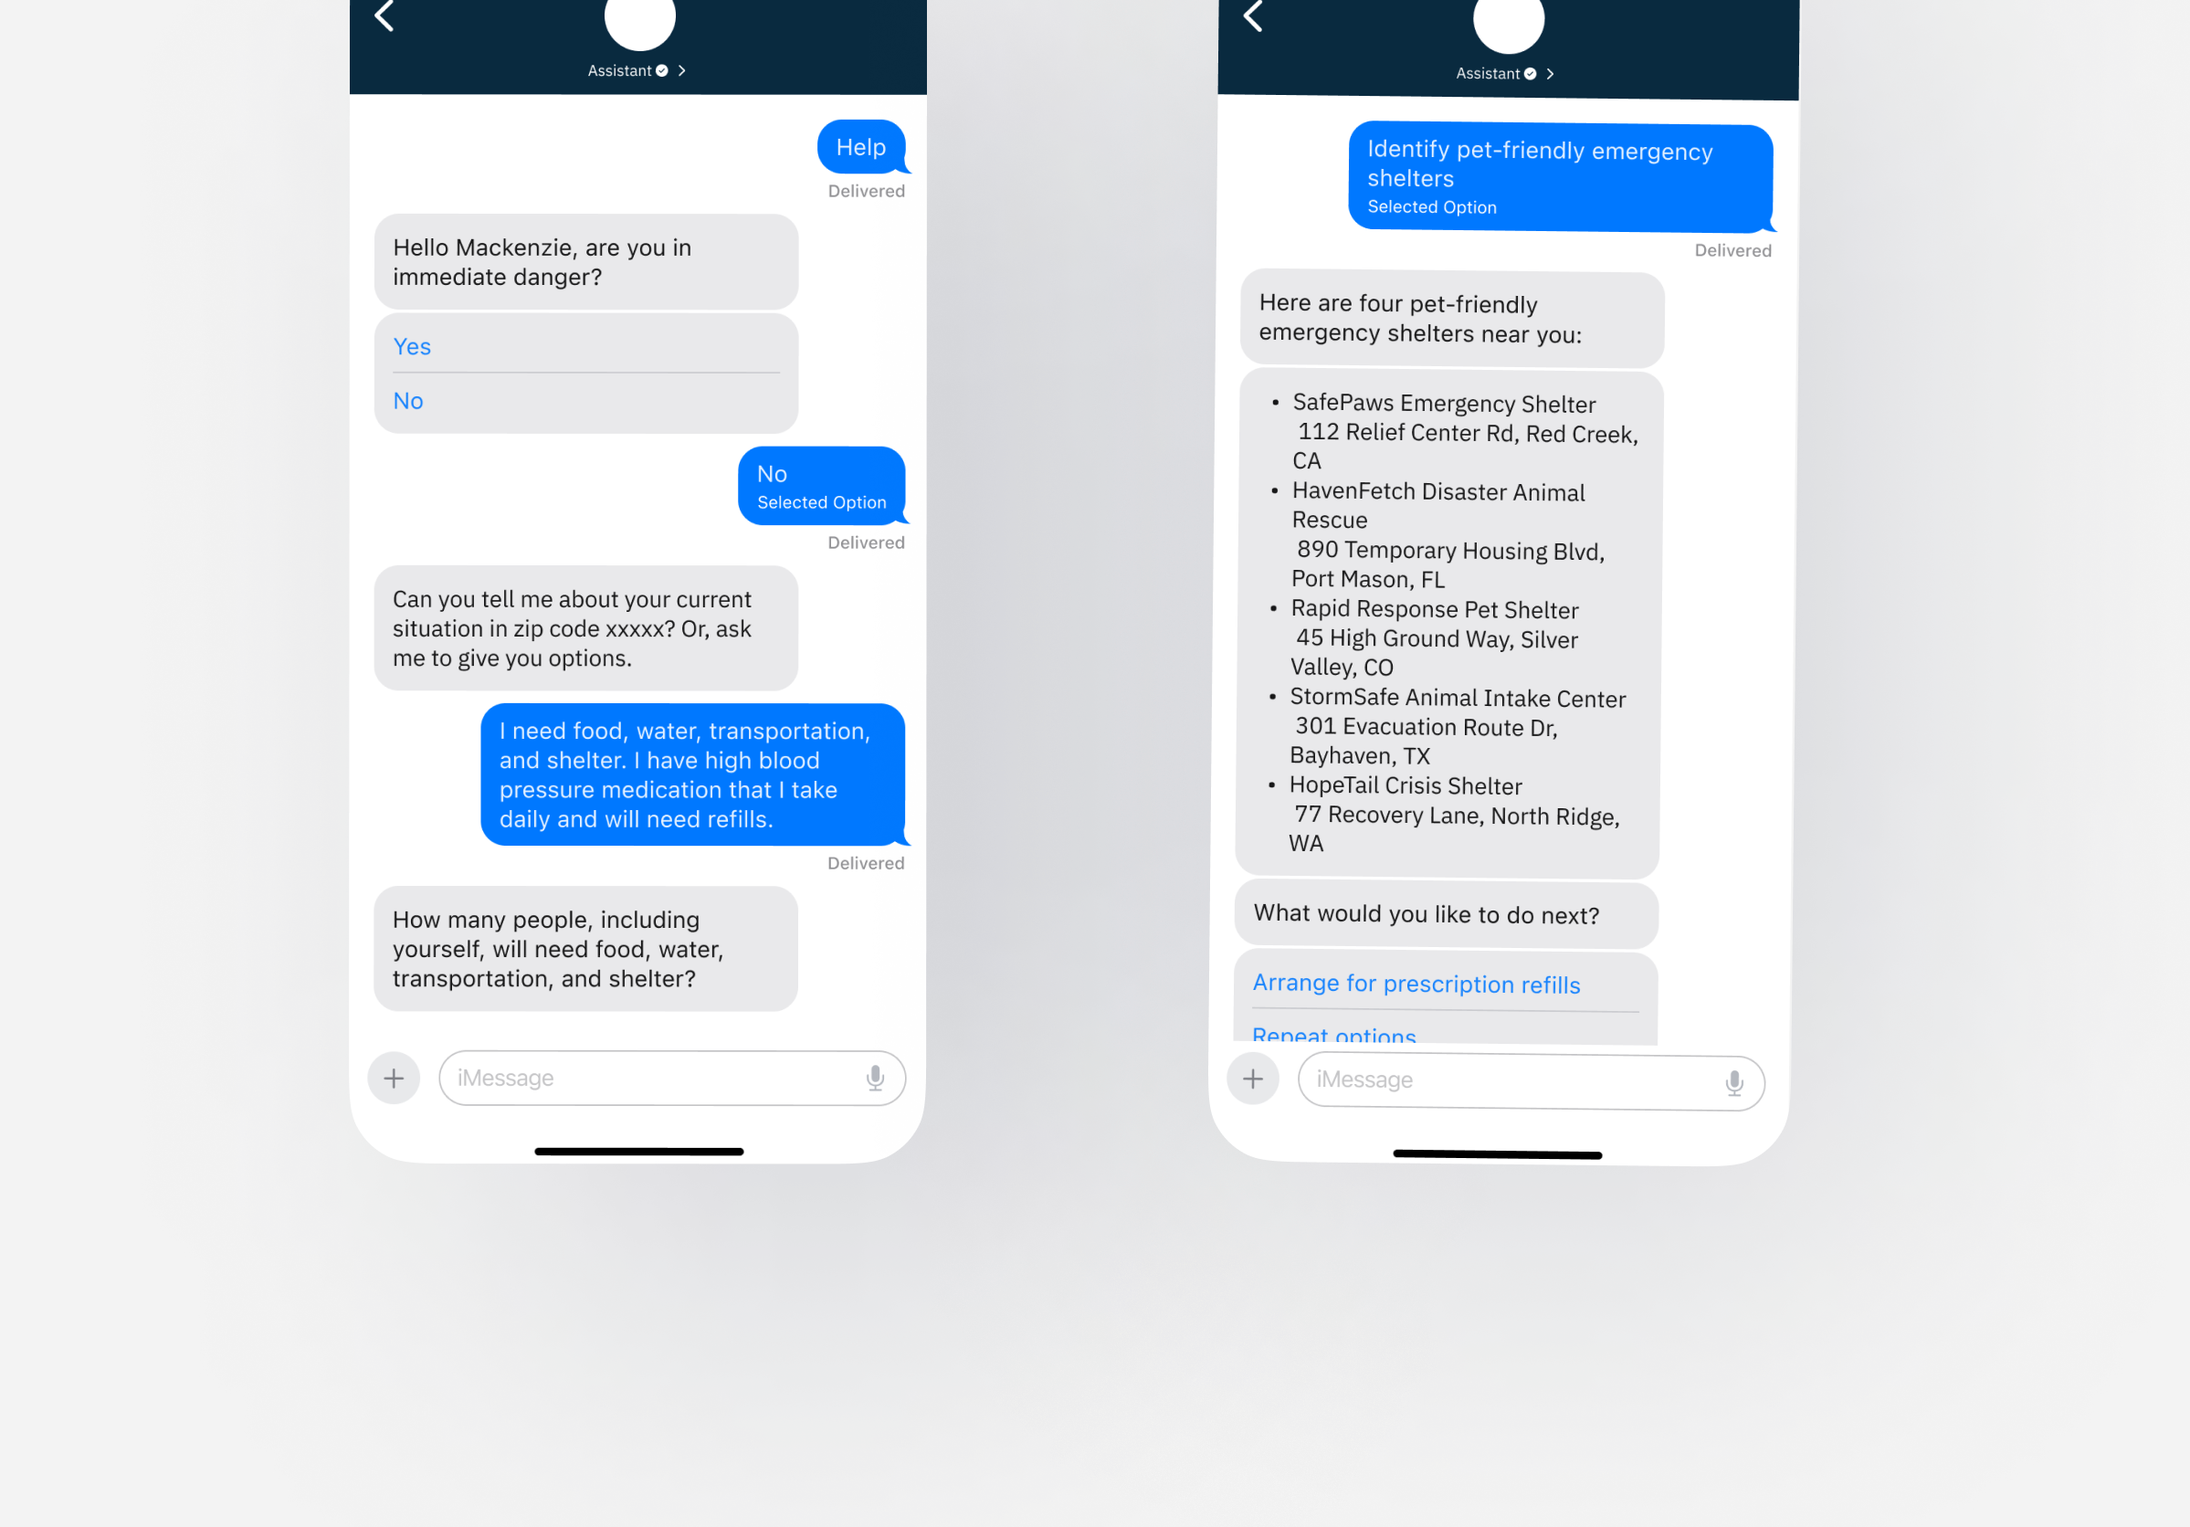
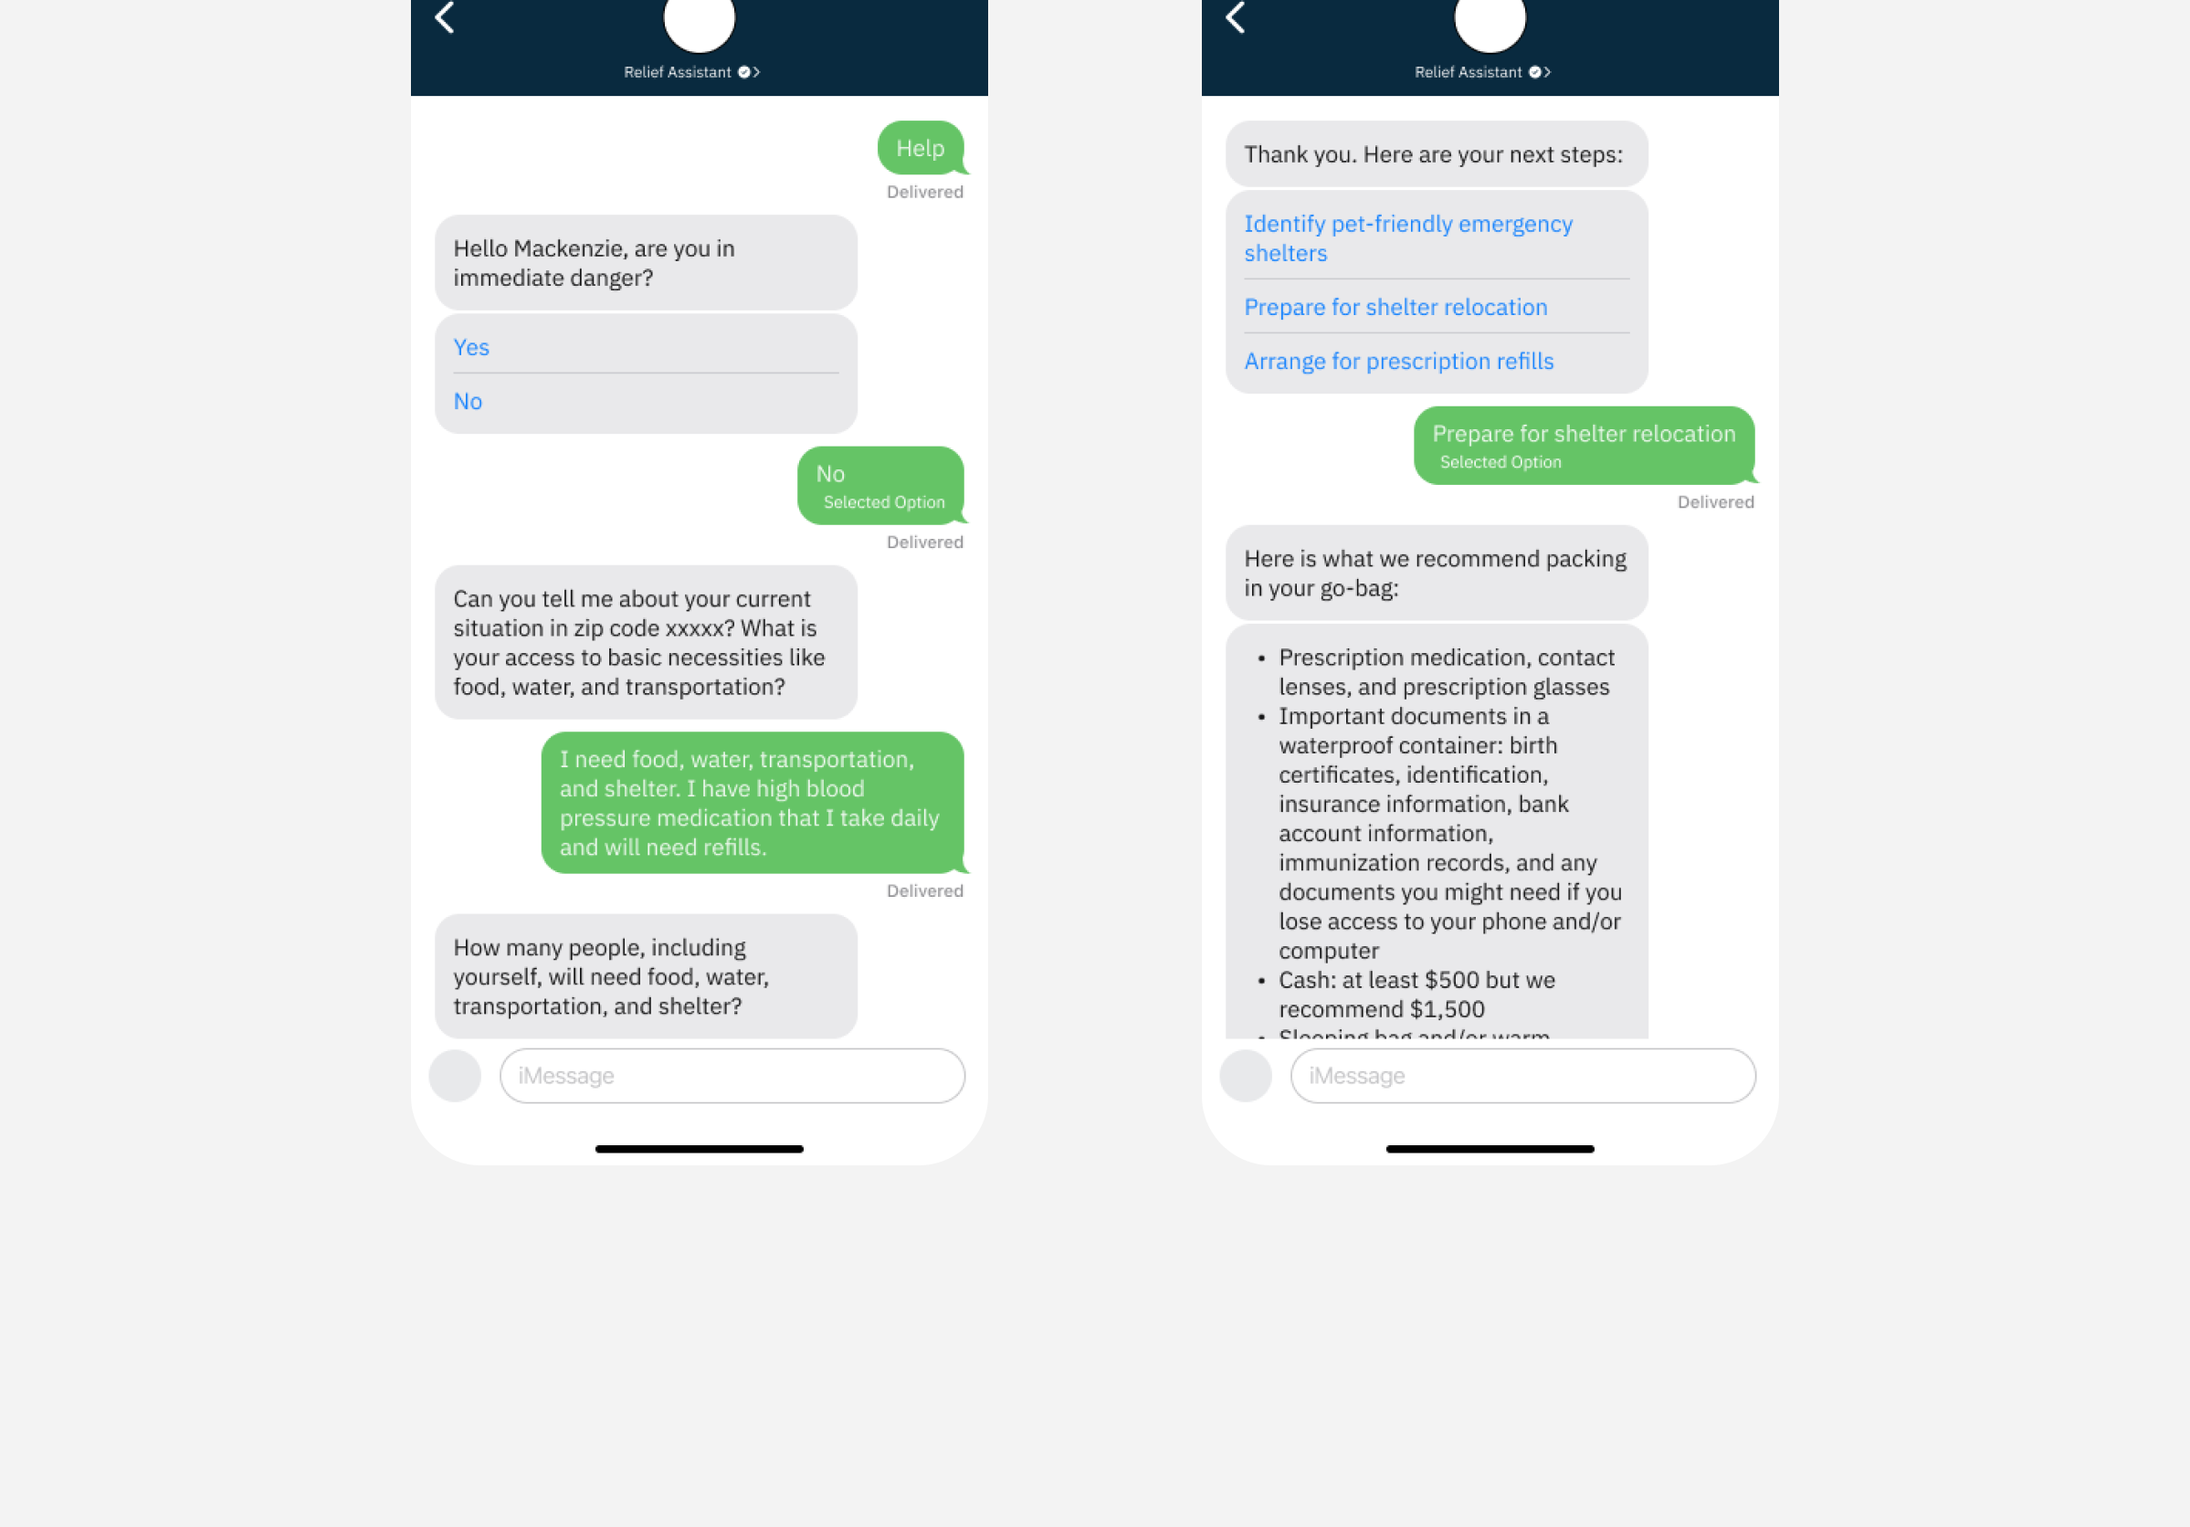
horizontal

diff --git a/app/projects/dr-assistant/page.tsx b/app/projects/dr-assistant/page.tsx
@@ -24,33 +24,32 @@ interface ProcessStep {
 const processSteps: ProcessStep[] = [
   {
     number: 1,
-    title: 'User Research',
+    title: 'User Research & Ideation',
     description: [
-      'Interviewed users affected by recent natural disasters',
+      'Spoke with users affected by recent natural disasters, turning insights into potential solution concepts.',
     ],
-    image: '/projects/drassistance/drcover.png',
+    image: '/projects/drassistance/interviewinsights.png',
   },
   {
     number: 2,
-    title: 'Ideation & Competitive Analysis',
+    title: 'Competitive Analysis',
     description: [
-      'Ideated on potential solutions and conducted competitive analysis on relief efforts an design choices',
+      'Solution concepts were narrowed down through research into feasibility and existing approaches, including a competitive analysis of relief efforts and their design choices. Alternative brand communication methods, such as iMessage-based texting for HR, were also explored to inform how users without app access might still be reached.',
     ],
-    image: '/projects/drassistance/drcover.png',
+    image: '/projects/drassistance/competitive.png',
   },
   {
     number: 3,
-    title: 'Style Guide & Wireframes',
+    title: 'Figma Wireframes',
     description: [
-      'Creating a style guide to fit the client and beginning initial wireframes',
     ],
-    image: '/projects/drassistance/drcover.png',
+    image: '/projects/drassistance/prototype.png',
   },
   {
     number: 4,
     title: 'Telling the Story',
     description: [
-      'Created a persona. to assist in the final walkthrough to the client.',
+      'A persona was drafted to walk the client through the prototype, giving the proof of concept a clear narrative. As part of this work, I mentored an intern through the process of developing this persona.',
     ],
     image: '/projects/drassistance/drcover.png',
   },
@@ -213,30 +212,43 @@ export default function DrAssistantPage() {
             >
               <p className="font-handwritten text-accent/70 text-base md:text-lg mb-4 pt-4">AI-assisted clinical tool</p>
               <h2 className="text-4xl md:text-5xl font-bold text-foreground max-w-3xl mx-auto mb-4">
-                Dr. Assistant
+                AI Assistant for Disaster Relief
               </h2>
               <p className="text-base mb-30 md:text-lg text-foreground/70 max-w-2xl mx-auto">
-                An AI-powered documentation tool designed to reduce administrative burden for physicians and give time back to patient care.
+                An AI assistant designed to aid disaster recovery efforts for state residents via mobile SOS texting.
               </p>
             </motion.div>
           }
         >
-          <div className="flex items-center justify-center h-full py-4 md:py-8">
-            <motion.div
-              initial={{ opacity: 0, y: 40, scale: 0.95 }}
-              animate={{ opacity: 1, y: 0, scale: 1 }}
-              transition={{ duration: 0.7, ease: [0.33, 1, 0.36, 1] }}
-              className="relative w-full max-w-3xl rounded-2xl overflow-hidden shadow-2xl border border-border"
-            >
-              <Image
-                src="/projects/drassistance/drcover.png"
-                alt="Dr. Assistant interface"
-                width={1200}
-                height={750}
-                className="w-full h-auto"
-                priority
-              />
-            </motion.div>
+          <div className="flex items-end justify-center gap-4 md:gap-8 lg:gap-12 h-full py-4 md:py-8">
+            {[
+              { src: '/projects/drassistance/SOS.png', alt: 'DR Assistant — screen 1' },
+              { src: '/projects/drassistance/text1.png', alt: 'DR Assistant — screen 2' },
+              { src: '/projects/drassistance/text2.png', alt: 'DR Assistant — screen 3' },
+            ].map((image, i) => (
+              <motion.div
+                key={i}
+                initial={{ opacity: 0, y: 40, scale: 0.9 }}
+                animate={{ opacity: 1, y: 0, scale: 1 }}
+                transition={{ duration: 0.6, delay: i * 0.15, ease: [0.33, 1, 0.36, 1] }}
+                whileHover={{ y: -16, transition: { duration: 0.3 } }}
+                style={{ marginTop: [0, -16, 0][i] }}
+              >
+                <div className="relative mx-auto w-48 sm:w-56 md:w-64 lg:w-72 rounded-3xl border-8 md:border-10 border-foreground/20 bg-foreground/5 overflow-hidden shadow-2xl">
+                  <div className="relative w-full">
+                    <Image
+                      src={image.src}
+                      alt={image.alt}
+                      width={500}
+                      height={900}
+                      className="w-full h-auto"
+                      sizes="(max-width: 640px) 192px, (max-width: 768px) 224px, (max-width: 1024px) 256px, 288px"
+                      priority
+                    />
+                  </div>
+                </div>
+              </motion.div>
+            ))}
           </div>
         </ContainerScroll>
       </section>
@@ -265,14 +277,14 @@ export default function DrAssistantPage() {
             <div>
               <h3 className="font-semibold text-foreground mb-3">The Challenge</h3>
               <p className="text-foreground/80 leading-relaxed">
-                Physicians spend an estimated 2 hours on documentation for every 1 hour of patient care. Existing tools are rigid and create cognitive overhead rather than reducing it.
+                Non-emergency disaster relief resources are decentralized and often unreachable without cell or internet service.
               </p>
             </div>
 
             <div>
               <h3 className="font-semibold text-foreground mb-3">The Solution</h3>
               <p className="text-foreground/80 leading-relaxed">
-                A contextual AI assistant embedded into the clinical workflow — surfacing smart templates, generating draft notes, and adapting to each physician's documentation style.
+                From complex to conversational: users can leverage iOS satellite texting to support questions on relief efforts.
               </p>
             </div>
           </motion.div>
@@ -302,16 +314,16 @@ export default function DrAssistantPage() {
           >
             {[
               {
-                title: 'Research & Discovery',
-                items: ['Physician interviews', 'Workflow observation', 'Pain point synthesis'],
+                title: 'User Interviews',
+                items: ['Developed interview questions to guide user research'],
               },
               {
-                title: 'Design & Prototyping',
-                items: ['Interaction design', 'High-fidelity Figma prototypes', 'AI interface patterns'],
+                title: 'Competitive Analysis',
+                items: ['Researched and synthesized relief efforts across different states', 'Analyzed iMessage communication with different brands'],
               },
               {
-                title: 'Testing & Iteration',
-                items: ['Moderated usability testing', 'Stakeholder reviews', 'Iterative refinement'],
+                title: 'Wireframes + Persona',
+                items: ['Mocked wireframes in Figma', 'Mentored intern on persona creation'],
               },
             ].map((role, i) => (
               <motion.div

diff --git a/components/projects-section.tsx b/components/projects-section.tsx
@@ -14,7 +14,7 @@ const projects = [
     year: '2026',
     note: 'react to angular widget builder',
     slug: 'design-to-code-migration',
-  },  
+  },
   {
     title: 'Medical AI Quiz Generator',
     description:
@@ -25,6 +25,16 @@ const projects = [
     note: 'proof of technology',
     slug: 'ai-quiz-generator',
   },
+  //   {
+  //   title: 'Disaster Recovery Assistant',
+  //   description:
+  //     'AI assistant designed to aid disaster recovery efforts for state residents via mobile SOS texting.',
+  //   tags: ['Competitive Analysis', 'User Research', 'Wireframes' ],
+  //   image: '/projects/drassistance/drcover2.png',
+  //   year: '2025',
+  //   note: 'proof of concept',
+  //   slug: 'dr-assistant',
+  // },
     {
     title: 'BuildMySkincare',
     description:
@@ -45,17 +55,6 @@ const projects = [
     note: 'shipped to production',
     slug: 'hudl-calibration',
   },
-  // Dr. Assistant hidden — uncomment to show
-  // {
-  //   title: 'Dr. Assistant',
-  //   description:
-  //     'An AI-powered documentation tool designed to reduce administrative burden for physicians and give time back to patient care.',
-  //   tags: ['AI Design', 'Healthcare', 'UX Research'],
-  //   image: '/projects/drassistance/drcover.png',
-  //   year: '2025',
-  //   note: 'clinical AI tool',
-  //   slug: 'dr-assistant',
-  // },
   // Additional projects can be added here
 ]
 
@@ -83,6 +82,7 @@ export function ProjectsSection() {
 
   return (
     <section id="projects" ref={sectionRef} className="px-6 md:px-12 py-28 max-w-6xl mx-auto">
+      {/* Section header */}
       <div className="fade-up flex items-end justify-between mb-14">
         <div>
           <p id="selected-work" className="font-handwritten text-accent/80 text-lg mb-1">selected work</p>
@@ -95,44 +95,42 @@ export function ProjectsSection() {
         </p>
       </div>
 
-      <div className="grid grid-cols-1 md:grid-cols-2 gap-6">
+      {/* Project rows */}
+      <div className="divide-y divide-border">
         {projects.map((project, i) => (
           <Link
             key={project.title}
             href={`/projects/${project.slug}`}
-            className="fade-up"
-            style={{ transitionDelay: `${i * 60}ms` }}
+            className="fade-up group block py-10 first:pt-0 last:pb-0 motion-reduce:transition-none"
+            style={{ transitionDelay: `${i * 80}ms` }}
           >
-            <article className="group relative bg-card border border-border rounded-2xl overflow-hidden cursor-pointer transition-all duration-300 hover:-translate-y-1 hover:shadow-[0_12px_40px_oklch(0.62_0.1_230_/_0.10)] h-full">
+            <article className="grid grid-cols-1 md:grid-cols-2 gap-6 md:gap-12 items-center">
 
-              {/* Image */}
-              <div className="relative w-full h-56 overflow-hidden">
-                <Image
-                  src={project.image}
-                  alt={`${project.title} project preview`}
-                  fill
-                  className="object-cover transition-transform duration-500 group-hover:scale-105"
-                  sizes="(max-width: 768px) 100vw, 50vw"
-                />
-                {/* Description overlay */}
-                <div className="absolute inset-0 bg-foreground/80 flex items-center justify-center p-6 opacity-0 group-hover:opacity-100 transition-opacity duration-300">
-                  <p className="text-primary-foreground text-sm leading-relaxed text-center">
-                    {project.description}
-                  </p>
+              {/* ── Text side ── */}
+              <div className="flex flex-col gap-4 md:order-1">
+                {/* Year + note */}
+                <div className="flex items-center gap-3">
+                  <span className="text-xs text-muted-foreground">{project.year}</span>
+                  <span className="font-handwritten text-xs text-accent/60">{project.note}</span>
                 </div>
-              </div>
 
-              {/* Card body */}
-              <div className="p-6">
-                <div className="flex items-start justify-between gap-4 mb-3">
-                  <h3 className="text-lg font-semibold text-foreground">{project.title}</h3>
-                  <div className="flex flex-col items-end gap-1 shrink-0">
-                    <span className="text-xs text-muted-foreground">{project.year}</span>
-                    <span className="font-handwritten text-xs text-accent/60 whitespace-nowrap">
-                      {project.note}
-                    </span>
-                  </div>
-                </div>
+                {/* Title with arrow reveal */}
+                <h3 className="text-2xl md:text-3xl font-bold text-foreground tracking-tight text-balance flex items-center gap-2">
+                  {project.title}
+                  <span
+                    aria-hidden="true"
+                    className="inline-block translate-x-0 opacity-0 group-hover:translate-x-1 group-hover:opacity-100 transition-all duration-200 text-accent motion-reduce:transition-none"
+                  >
+                    →
+                  </span>
+                </h3>
+
+                {/* Description */}
+                <p className="text-sm leading-relaxed text-foreground/70 max-w-md">
+                  {project.description}
+                </p>
+
+                {/* Tags */}
                 <div className="flex flex-wrap gap-2">
                   {project.tags.map((tag) => (
                     <span
@@ -144,6 +142,18 @@ export function ProjectsSection() {
                   ))}
                 </div>
               </div>
+
+              {/* ── Image side ── */}
+              <div className="relative w-full aspect-[16/9] overflow-hidden rounded-xl md:order-2 bg-secondary/40">
+                <Image
+                  src={project.image}
+                  alt={`${project.title} project preview`}
+                  fill
+                  className="object-cover transition-transform duration-500 group-hover:scale-105 motion-reduce:transition-none"
+                  sizes="(max-width: 768px) 100vw, 50vw"
+                />
+              </div>
+
             </article>
           </Link>
         ))}

diff --git a/app/projects/design-to-code-migration/page.tsx b/app/projects/design-to-code-migration/page.tsx
@@ -198,7 +198,7 @@ export default function HudlCasePage() {
             >
               <p className="font-handwritten text-accent/70 text-base md:text-lg mb-4 pt-4">design engineering / proof of technology</p>
               <h2 className="text-4xl md:text-5xl font-bold text-foreground max-w-3xl mx-auto mb-4">
-                Design-to-Code Migration
+                Widget Code Refactoring
               </h2>
               <p className="text-base mb-10 md:text-lg text-foreground/70 max-w-2xl mx-auto">
                An AI-powered guided workflow for refactoring widgets into a component library for a new micro-UI architecture.
